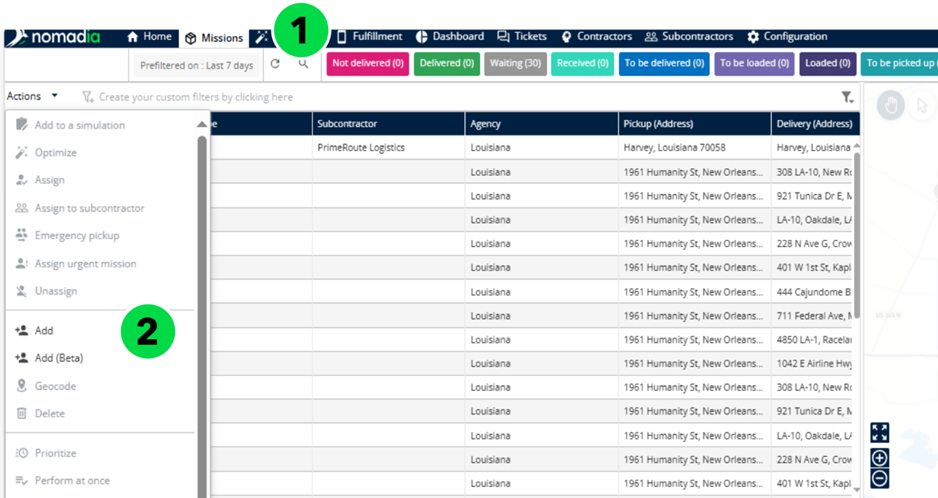
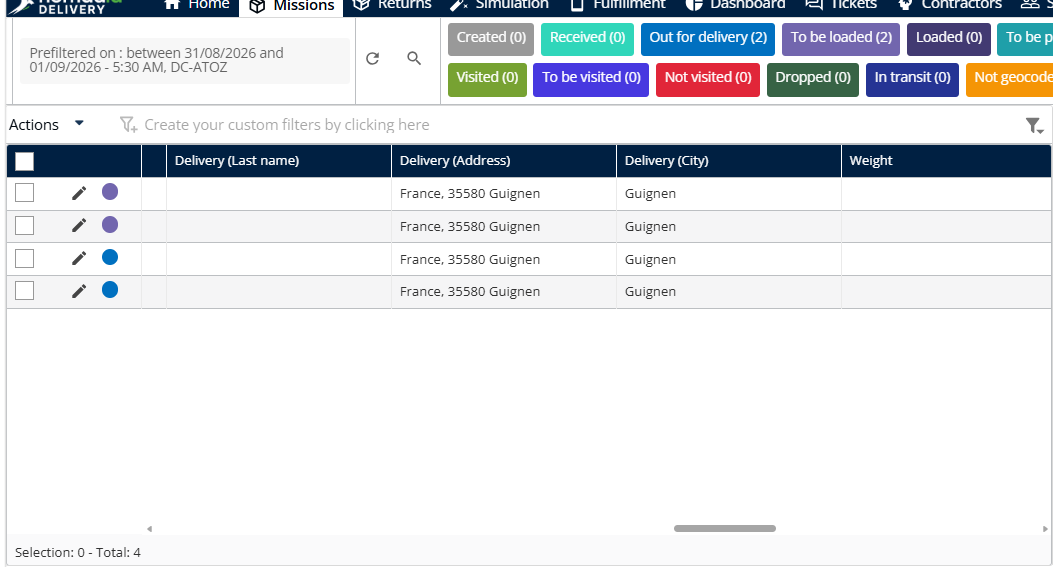
GITBOOK-370: No subject

diff --git a/parenttochildinheritance/parenttochildinheritance.md b/parenttochildinheritance/parenttochildinheritance.md
@@ -1,178 +1,138 @@
-# parenttochildinheritance
-Here is the complete user guide for the **parenttochildinheritance** feature in **Nomadia Delivery**, tailored for transport dispatchers and planners. This document is fully formatted, verified against the video source, and ready for use.
+# Parent to Child Inheritance
 
-***
+The **Parent to Child Inheritance** feature automatically synchronizes settings from a parent container to its child containers. This eliminates the need to manually update each individual child container. Enable this to save time and ensure data consistency across your fleet.
 
-# parenttochildinheritance
-
-The **parenttochildinheritance** feature automatically synchronizes settings from a parent container to its child containers. This eliminates the need to manually update each individual child container. Enable this to save time and ensure data consistency across your fleet.
-
-### Getting Started
+#### Getting Started
 
 Prerequisites and system requirements:
+
 * Active account in **Nomadia Delivery** with **Configuration** panel access.
 * Parent and child containers configured with correct identifiers.
 
 Steps:
+
 1. Navigate to the **Configuration** menu.
-
-   ![Flow 0:11 to 0:27](parenttochildinheritance-parenttochildinheritance_timestamp_0_to_11_to_0_to_27.gif "Configuration Navigation – Navigating to container types and finding the correct identifier.")
-
 2. Click on **Container Types**.
 
-### Feature Overview
+![](../.gitbook/assets/parenttochildinheritance-parenttochildinheritance_timestamp_0_to_11_to_0_to_27.gif)
 
-* **Inherit sub status to child machines**: This toggle switch automatically passes parent container status to child containers.
+#### Feature Overview
 
-  ![Frame at 0:39](parenttochildinheritance-parenttochildinheritance_timestamp_0_to_39.png "Inherit sub status to child machines – Toggle to enable status inheritance from parent to child containers.")
+* **Inherit sub status to child missions:** This toggle switch automatically passes parent container status to child containers.
+* **Pallet:** This icon opens configuration options for a specific container type.
+* **Pencil icon**: This edit button opens the configuration mode for a mission.
+* **Inherit attributes to child missions:** This setting automatically copies parent details to child containers.
+* **Inherit documents to child missions**: This option automatically shares parent documents with child containers.
 
-* **Palette**: This icon opens configuration options for a specific container type.
-
-  ![Frame at 0:34](parenttochildinheritance-parenttochildinheritance_timestamp_0_to_34.png "Palette – Icon to open configuration details for a container.")
-
-* **Pencil icon**: This edit button opens the configuration mode for a machine.
-
-  ![Frame at 1:06](parenttochildinheritance-parenttochildinheritance_timestamp_1_to_06.png "Pencil icon – Edit button to modify machine details.")
-
-* **Inherit attributes to child machines**: This setting automatically copies parent details to child containers.
-
-  ![Frame at 3:07](parenttochildinheritance-parenttochildinheritance_timestamp_3_to_07.png "Inherit attributes to child machines – Checkbox to enable address and details inheritance.")
-
-* **Inherit documents to child machines**: This option automatically shares parent documents with child containers.
-
-  ![Frame at 4:24](parenttochildinheritance-parenttochildinheritance_timestamp_4_to_24.png "Inherit documents to child machines – Toggle to enable PDF and document inheritance.")
-
-### How To: Enable and Inherit Machine Sub Statuses
+#### How To: Enable and Inherit Mission Sub Statuses
 
 1. Navigate to the **Configuration** menu.
 
-   ![Flow 0:11 to 0:27](parenttochildinheritance-parenttochildinheritance_timestamp_0_to_11_to_0_to_27.gif "Configuration Navigation – Navigating to container types and finding the correct identifier.")
+![](../.gitbook/assets/parenttochildinheritance-parenttochildinheritance_timestamp_0_to_11_to_0_to_27.gif)
 
 2. Click on **Container Types**.
 3. Scroll down to see the correct identifier.
-4. Click the **Palette** icon.
-
-   ![Flow 0:27 to 0:34](parenttochildinheritance-parenttochildinheritance_timestamp_0_to_27_to_0_to_34.gif "Open Palette – Locating the correct identifier and opening its configuration.")
-
-5. Toggle **Inherit sub status to child machines** to **Yes**.
-
-   ![Frame at 0:39](parenttochildinheritance-parenttochildinheritance_timestamp_0_to_39.png "Enable Sub-Status – Setting the inheritance toggle to Yes.")
-
+4. Click the **Pallet** icon.
+5. Toggle **Inherit sub status to child missions** to **Yes**.
 6. Click on the **Save** button.
 
-   ![Frame at 0:51](parenttochildinheritance-parenttochildinheritance_timestamp_0_to_51.png "Save Configuration – Clicking save to store the setting.")
+![](../.gitbook/assets/parenttochildinheritance-parenttochildinheritance_timestamp_0_to_39.png)
 
-7. Go to **Machines**.
-8. Click the **Pencil icon** next to the parent container machine number.
+4. Go to **Missions**.
+5. Click the **Pencil icon** next to the parent container mission.
+6. Change the **Mission status**.
+7. Click on **Save**.
 
-   ![Flow 0:51 to 1:06](parenttochildinheritance-parenttochildinheritance_timestamp_0_to_51_to_1_to_06.gif "Open Machine Edit – Opening edit mode for the parent container.")
+The status has been updated for all child missions.
 
-9. Change the **Machine status**.
+![](../.gitbook/assets/parenttochildinheritance-parenttochildinheritance_timestamp_1_to_38.png)
 
-   ![Frame at 1:16](parenttochildinheritance-parenttochildinheritance_timestamp_1_to_16.png "Modify Status – Choosing a new machine status for the parent.")
-
-10. Click on **Save**.
-
-    ![Frame at 1:38](parenttochildinheritance-parenttochildinheritance_timestamp_1_to_38.png "Save Machine Status – Applying status update to parent and child machines.")
-
-### How To: Select and Inherit Custom Machine Statuses
+#### How To: Select and Inherit Custom Mission Statuses
 
 1. Go to **Configuration**.
 2. Click **Container Types**.
 3. Scroll down to see the current identifier.
-
-   ![Flow 1:42 to 2:07](parenttochildinheritance-parenttochildinheritance_timestamp_1_to_42_to_2_to_07.gif "Configuration Navigation – Locating current identifier in container types.")
-
 4. Select specific child status options like **Out for delivery** and **To be loaded**.
 
-   ![Frame at 2:12](parenttochildinheritance-parenttochildinheritance_timestamp_2_to_12.png "Select Child Statuses – Choosing status options for child containers.")
+![](../.gitbook/assets/parenttochildinheritance-parenttochildinheritance_timestamp_2_to_12.png)
 
 5. Click the **Save button**.
 
-   ![Frame at 2:19](parenttochildinheritance-parenttochildinheritance_timestamp_2_to_19.png "Save Mappings – Saving the selected child status mappings.")
+![](../.gitbook/assets/parenttochildinheritance-parenttochildinheritance_timestamp_2_to_19.png)
 
-6. Go to **Machines**.
+6. Go to **Missions**.
 7. Click the **Parent container**.
-
-   ![Flow 2:25 to 2:34](parenttochildinheritance-parenttochildinheritance_timestamp_2_to_25_to_2_to_34.gif "Open Parent Container – Navigating to parent container under Machines.")
-
 8. Select the status configured in container types, such as **Out for delivery**.
 
-   ![Frame at 2:39](parenttochildinheritance-parenttochildinheritance_timestamp_2_to_39.png "Select Parent Status – Applying the predefined status to parent.")
+![](../.gitbook/assets/parenttochildinheritance-parenttochildinheritance_timestamp_2_to_39.png)
 
 9. Click on **Save**.
 
-   ![Frame at 2:49](parenttochildinheritance-parenttochildinheritance_timestamp_2_to_49.png "Save Selection – Saving and verifying automatic status propagation.")
+The status has been updated for all child missions.
 
-### How To: Inherit Attributes to Child Containers
+![](../.gitbook/assets/parenttochildinheritance-parenttochildinheritance_timestamp_2_to_49.png)
+
+#### How To: Inherit Attributes to Child Containers
 
 1. Navigate to **Configuration**.
 2. Click on **Container Types**.
-3. Toggle **Inherit attributes to child machines** to enable it.
-
-   ![Frame at 3:07](parenttochildinheritance-parenttochildinheritance_timestamp_3_to_07.png "Enable Attributes Inheritance – Toggling inheritance for child container attributes.")
-
+3. Toggle **Inherit attributes to child missions** to enable it.
 4. Click on **Save**.
 
-   ![Frame at 3:14](parenttochildinheritance-parenttochildinheritance_timestamp_3_to_14.png "Save Attributes Setup – Saving configuration changes.")
+![](../.gitbook/assets/parenttochildinheritance-parenttochildinheritance_timestamp_3_to_07.png)
 
-5. Go to **Machines**.
+5. Go to **Missions**.
 6. Click the **Parent container**.
-
-   ![Flow 3:14 to 3:38](parenttochildinheritance-parenttochildinheritance_timestamp_3_to_14_to_3_to_38.gif "Open Parent Container – Accessing parent container details.")
-
-7. Correct the **Address** if the address is wrong.
-
-   ![Frame at 3:53](parenttochildinheritance-parenttochildinheritance_timestamp_3_to_53.png "Edit Address – Correcting address information on the parent container.")
-
+7. Correct the **Address,** if the address is wrong.
 8. Click on **Save**.
 
-   ![Frame at 4:08](parenttochildinheritance-parenttochildinheritance_timestamp_4_to_08.png "Save Address – Saving parent address which automatically propagates to child containers.")
+![](../.gitbook/assets/parenttochildinheritance-parenttochildinheritance_timestamp_3_to_53.png)
 
-### How To: Inherit Documents to Child Containers
+The status has been updated for all child missions.
+
+<figure><img src="../.gitbook/assets/image (101).png" alt=""><figcaption></figcaption></figure>
+
+#### How To: Inherit Documents to Child Containers
 
 1. Navigate to **Configuration**.
 2. Click on **Container Types**.
-3. Toggle **Inherit documents to child machines** to enable it.
+3. Toggle **Inherit documents to child missions** to enable it.
 
-   ![Frame at 4:24](parenttochildinheritance-parenttochildinheritance_timestamp_4_to_24.png "Enable Documents Inheritance – Toggling document inheritance for child containers.")
+![](../.gitbook/assets/parenttochildinheritance-parenttochildinheritance_timestamp_4_to_24.png)
 
 4. Click on **Save**.
 
-   ![Frame at 4:26](parenttochildinheritance-parenttochildinheritance_timestamp_4_to_26.png "Save Document Setup – Saving document inheritance configuration.")
+![](../.gitbook/assets/parenttochildinheritance-parenttochildinheritance_timestamp_4_to_26.png)
 
-5. Go to **Machines**.
+5. Go to **Missions**.
 6. Click the **Parent container**.
 
-   ![Flow 4:30 to 4:44](parenttochildinheritance-parenttochildinheritance_timestamp_4_to_30_to_4_to_44.gif "Open Parent Container – Navigating to parent container details.")
+![](../.gitbook/assets/parenttochildinheritance-parenttochildinheritance_timestamp_4_to_30_to_4_to_44.gif)
 
 7. Click **Browse the computer**.
 8. Select the **PDF** file.
 
-   ![Flow 4:44 to 4:57](parenttochildinheritance-parenttochildinheritance_timestamp_4_to_44_to_4_to_57.gif "Browse and Select Document – Choosing a PDF from computer files.")
+![](../.gitbook/assets/parenttochildinheritance-parenttochildinheritance_timestamp_4_to_44_to_4_to_57.gif)
 
-9. Click the **Save button**.
-
-   ![Frame at 5:09](parenttochildinheritance-parenttochildinheritance_timestamp_5_to_09.png "Save Document – Uploading and saving the PDF document on parent container.")
-
-#### Troubleshooting: Unsaved Changes Warning
+**Troubleshooting: Unsaved Changes Warning**
 
 If you attempt to go back without saving after uploading documents, a pop-up window will display.
 
-1. Click **No** on the pop-up window to stay on the page.
+9. Click **No** on the pop-up window to stay on the page.
 
-   ![Frame at 5:19](parenttochildinheritance-parenttochildinheritance_timestamp_5_to_19.png "Unsaved Changes Warning – Confirmation dialog warning about leaving without saving.")
+![](../.gitbook/assets/parenttochildinheritance-parenttochildinheritance_timestamp_5_to_19.png)
 
-2. Click the **Save button** to complete the upload.
+10. Click the **Save button** to complete the upload.
 
-   ![Frame at 5:23](parenttochildinheritance-parenttochildinheritance_timestamp_5_to_23.png "Confirm Save – Saving changes to prevent data loss.")
+![](../.gitbook/assets/parenttochildinheritance-parenttochildinheritance_timestamp_5_to_23.png)
 
-### Productivity Tips
+The document will be reflected in the child container.
+
+<figure><img src="../.gitbook/assets/image (102).png" alt=""><figcaption></figcaption></figure>
+
+
+
+#### Productivity Tips
 
 * 💡 **Automatic Syncing**: Updating parent container status, address, or documents automatically updates child containers.
 * ⚠ **Avoid Unsaved Documents**: Do not click the back button before saving uploaded PDF files to prevent data loss.
-
-***
-
-✏ **Would you like me to make any adjustments to this guide, such as modifying the target file parameters or changing the screenshot layout?**
-

diff --git a/manage-notifications/customize-email-templates/customtemplates.md b/manage-notifications/customize-email-templates/customtemplates.md
@@ -13,15 +13,15 @@ Initial Setup Steps:
 
 1. Go to **Configuration**.
 
-![](<../../.gitbook/assets/customtemplates-customtemplates_timestamp_0_to_07_to_0_to_21 (1).gif>)
+![](../../.gitbook/assets/customtemplates-customtemplates_timestamp_0_to_07_to_0_to_21.gif)
 
 2. Scroll down and click **Configure outgoing messages**.
 
-![](<../../.gitbook/assets/customtemplates-customtemplates_timestamp_0_to_07_to_0_to_21 (1).gif>)
+![](../../.gitbook/assets/customtemplates-customtemplates_timestamp_0_to_07_to_0_to_21.gif)
 
 3. Click **Email templates** on the left side of the screen.
 
-![](<../../.gitbook/assets/customtemplates-customtemplates_timestamp_0_to_21_to_0_to_28 (1).gif>)
+![](../../.gitbook/assets/customtemplates-customtemplates_timestamp_0_to_21_to_0_to_28.gif)
 
 #### Feature Overview
 
@@ -38,47 +38,47 @@ Initial Setup Steps:
 
 1. Go to **Configuration**.
 
-![](<../../.gitbook/assets/customtemplates-customtemplates_timestamp_0_to_07_to_0_to_21 (1).gif>)
+![](../../.gitbook/assets/customtemplates-customtemplates_timestamp_0_to_07_to_0_to_21.gif)
 
 2. Scroll down and click **Configure outgoing messages**.
 
-![](<../../.gitbook/assets/customtemplates-customtemplates_timestamp_0_to_07_to_0_to_21 (1).gif>)
+![](../../.gitbook/assets/customtemplates-customtemplates_timestamp_0_to_07_to_0_to_21.gif)
 
 3. Click **Email templates** on the left side of the screen.
 
-![](<../../.gitbook/assets/customtemplates-customtemplates_timestamp_0_to_21_to_0_to_28 (1).gif>)
+![](../../.gitbook/assets/customtemplates-customtemplates_timestamp_0_to_21_to_0_to_28.gif)
 
 4. Click **Actions**.
 
-![](<../../.gitbook/assets/customtemplates-customtemplates_timestamp_0_to_28_to_0_to_31 (1).gif>)
+![](../../.gitbook/assets/customtemplates-customtemplates_timestamp_0_to_28_to_0_to_31.gif)
 
 5. Click **Add**.
 
-![](<../../.gitbook/assets/customtemplates-customtemplates_timestamp_0_to_31_to_0_to_36 (1).gif>)
+![](../../.gitbook/assets/customtemplates-customtemplates_timestamp_0_to_31_to_0_to_36.gif)
 
 6. Click **Custom template** to select your custom template.
 
-![](<../../.gitbook/assets/customtemplates-customtemplates_timestamp_0_to_36_to_0_to_46 (1).gif>)
+![](../../.gitbook/assets/customtemplates-customtemplates_timestamp_0_to_36_to_0_to_46.gif)
 
 7. Enter a unique template name in the **Identifier** field.
 
-![](<../../.gitbook/assets/customtemplates-customtemplates_timestamp_1_to_04 (1).png>)
+![](../../.gitbook/assets/customtemplates-customtemplates_timestamp_1_to_04.png)
 
 8. Enter your subject line in the **Email subject** field.
 
-![](<../../.gitbook/assets/customtemplates-customtemplates_timestamp_1_to_14 (1).png>)
+![](../../.gitbook/assets/customtemplates-customtemplates_timestamp_1_to_14.png)
 
 9. Toggle the mode switch from **Standard mode** to **Advanced mode** if desired.
 
-![](<../../.gitbook/assets/customtemplates-customtemplates_timestamp_1_to_14_to_1_to_22 (1).gif>)
+![](../../.gitbook/assets/customtemplates-customtemplates_timestamp_1_to_14_to_1_to_22.gif)
 
 10. Type your template text in the **Message** field.
 
-![](<../../.gitbook/assets/customtemplates-customtemplates_timestamp_1_to_29 (1).png>)
+![](../../.gitbook/assets/customtemplates-customtemplates_timestamp_1_to_29.png)
 
 11. Click **Save** in the top right corner to save your changes.
 
-![](<../../.gitbook/assets/customtemplates-customtemplates_timestamp_1_to_29_to_2_to_01 (1).gif>)
+![](../../.gitbook/assets/customtemplates-customtemplates_timestamp_1_to_29_to_2_to_01.gif)
 
 #### Productivity Tips
 
